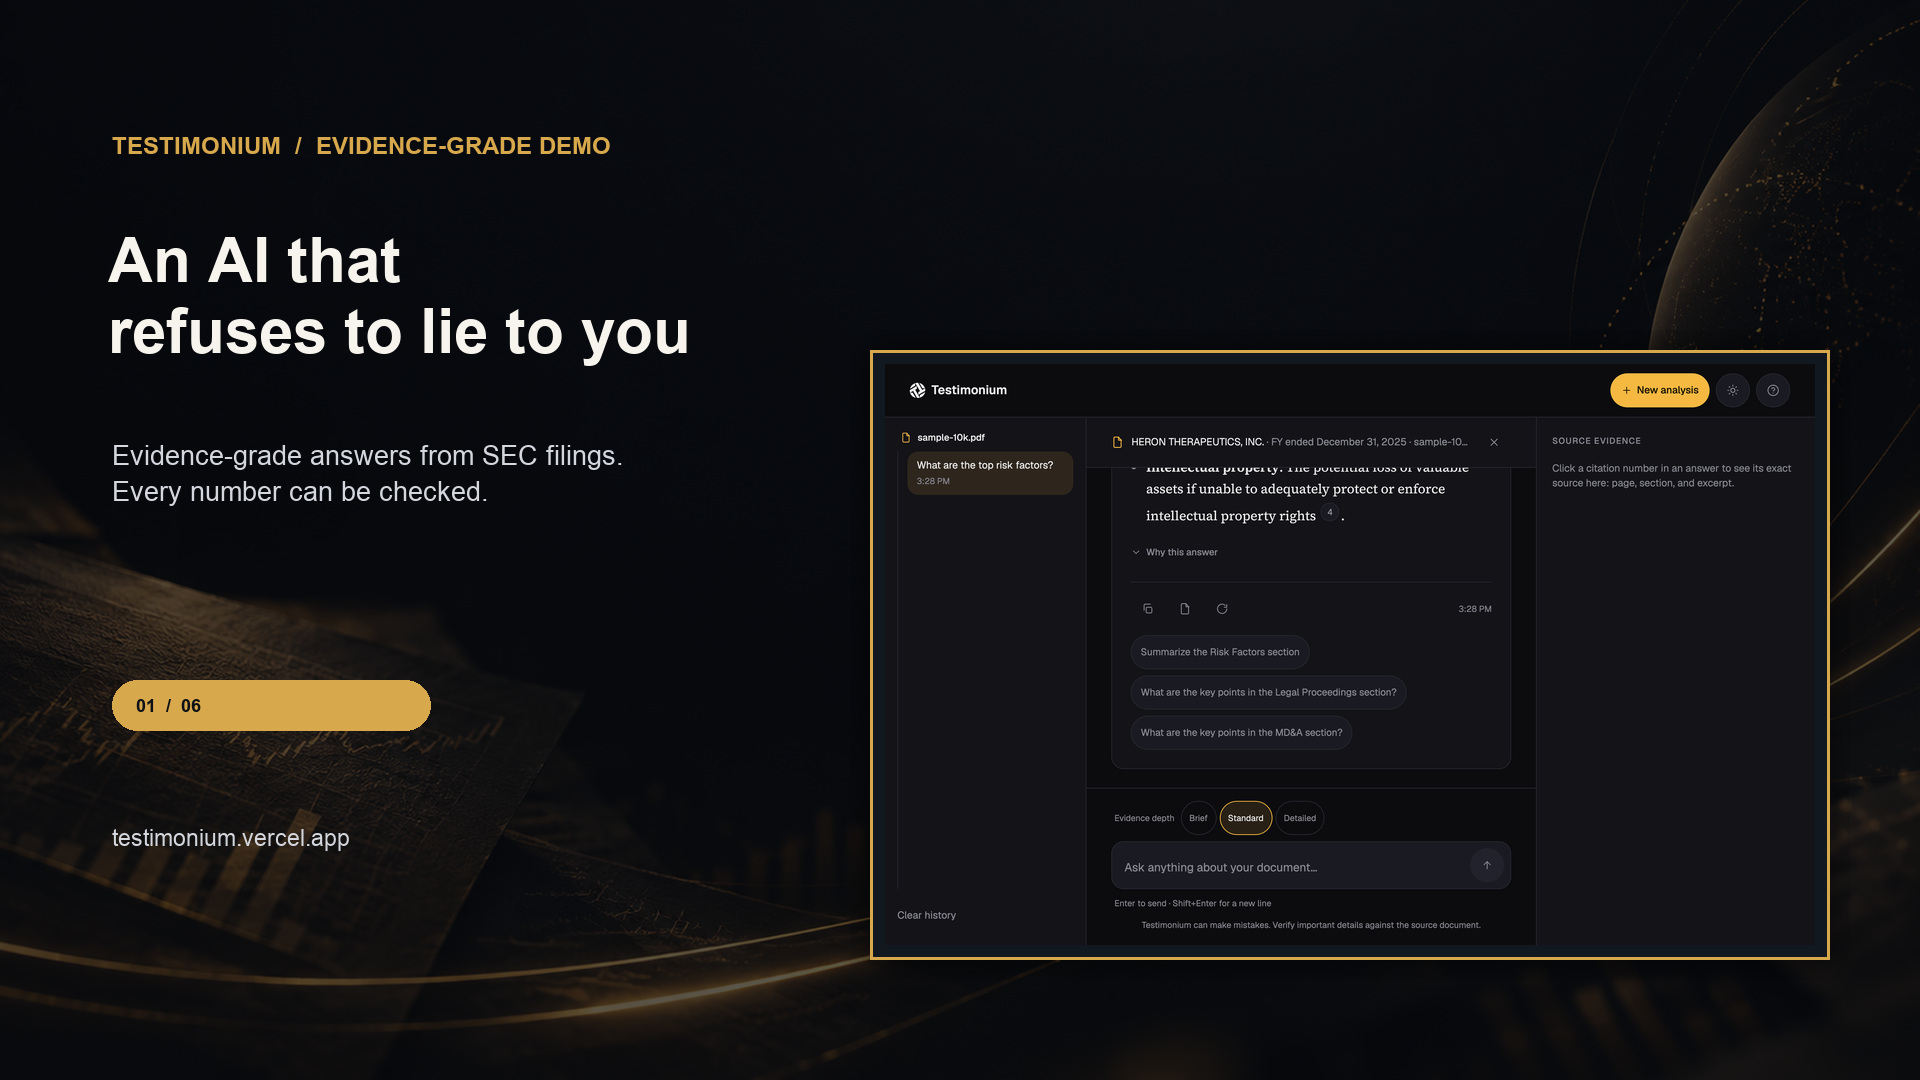
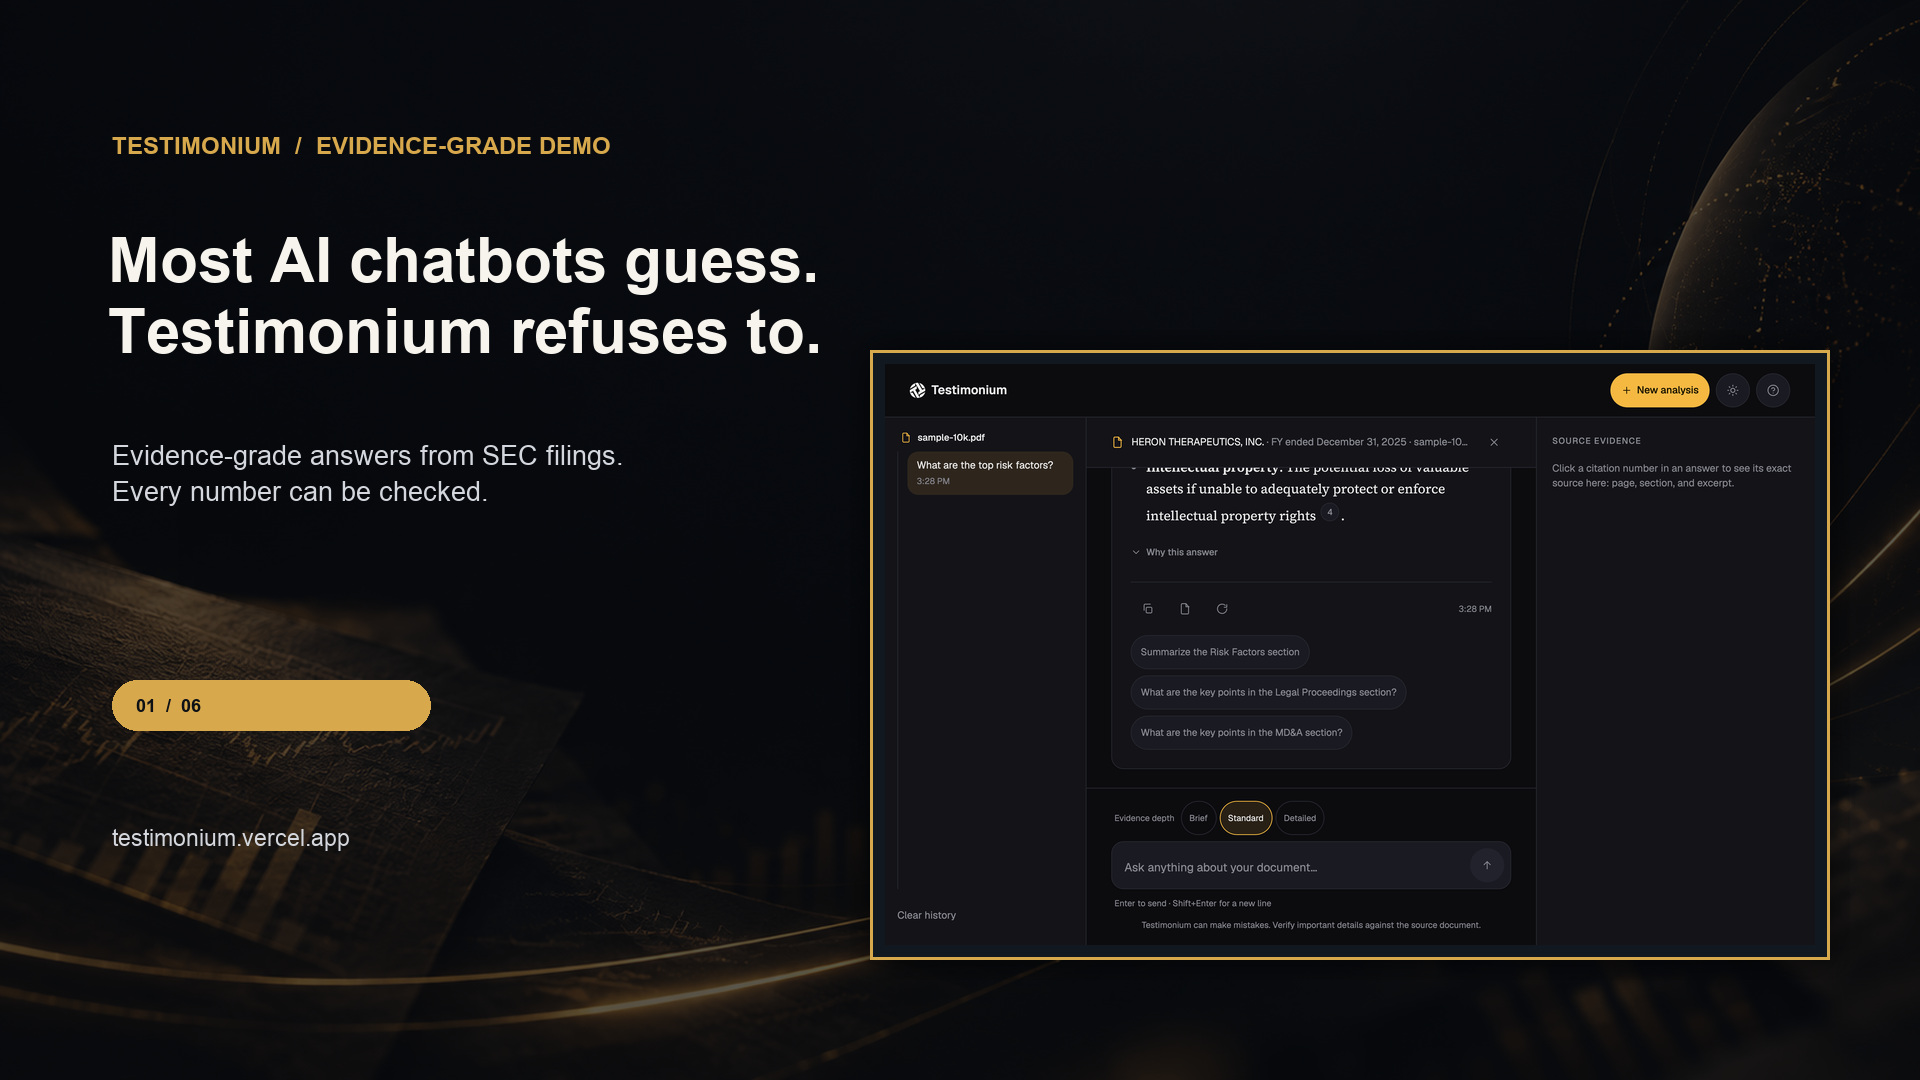
align demo poster headline with opening frame

Changed region(s): [[0.0625, 0.2139, 0.4375, 0.3361]]

diff --git a/demo/render_demo.py b/demo/render_demo.py
@@ -116,7 +116,7 @@ def main():
             output.write(f"file '{path}'\n")
             output.write(f'duration {duration}\n')
         output.write(f"file '{entries[-1][0]}'\n")
-    poster = make_frame('03-conversation-answer.png', 'An AI that\nrefuses to lie to you', 'Evidence-grade answers from SEC filings.\nEvery number can be checked.', 0)
+    poster = make_frame('03-conversation-answer.png', 'Most AI chatbots guess.\nTestimonium refuses to.', 'Evidence-grade answers from SEC filings.\nEvery number can be checked.', 0)
     poster.save(ROOT / 'poster.jpg', quality=94, subsampling=0)
 
 if __name__ == '__main__':
